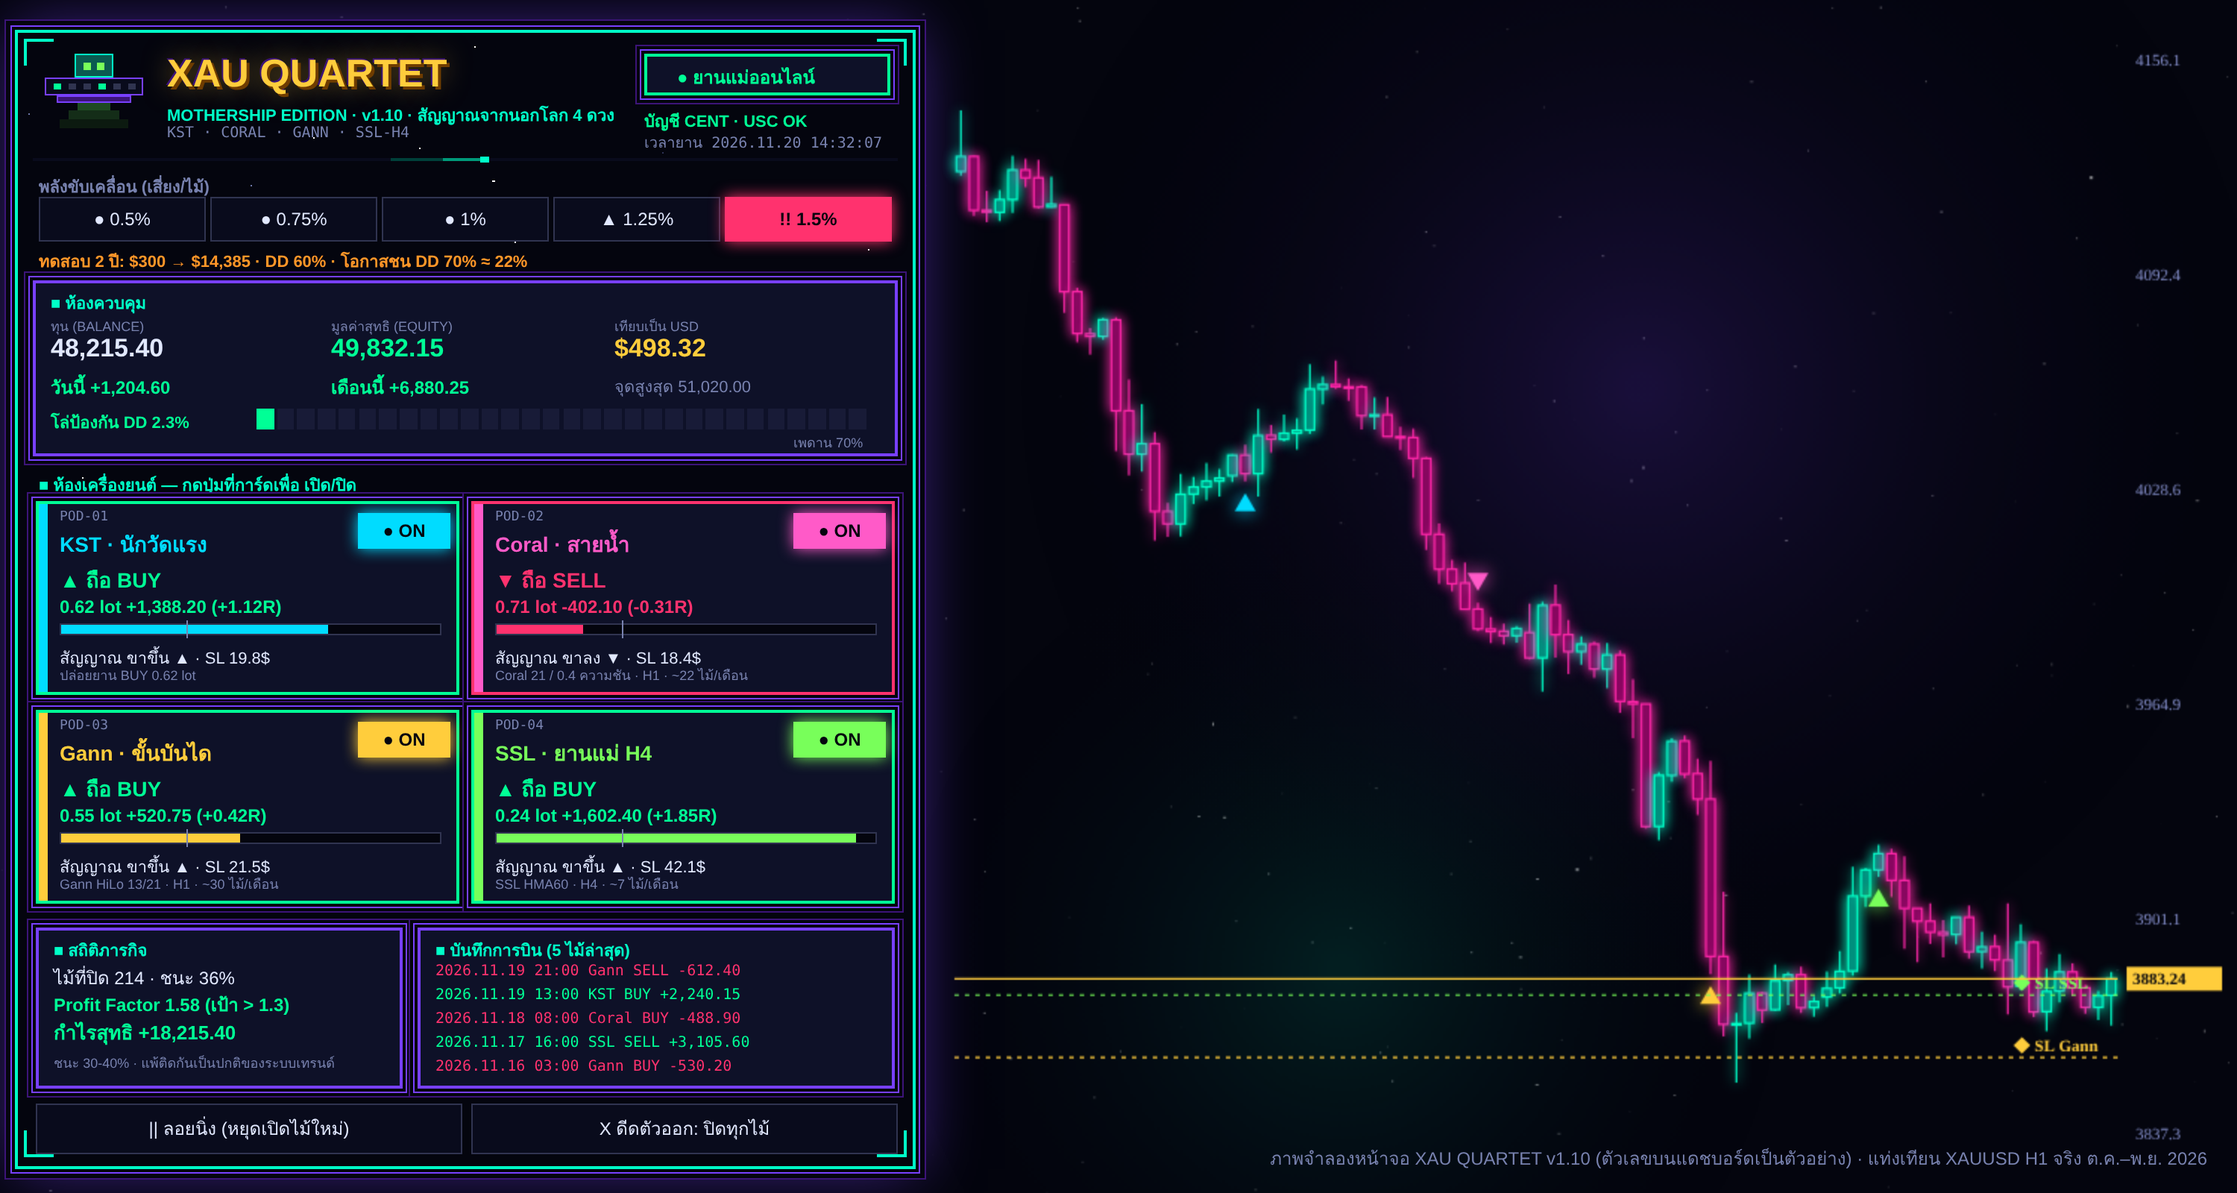
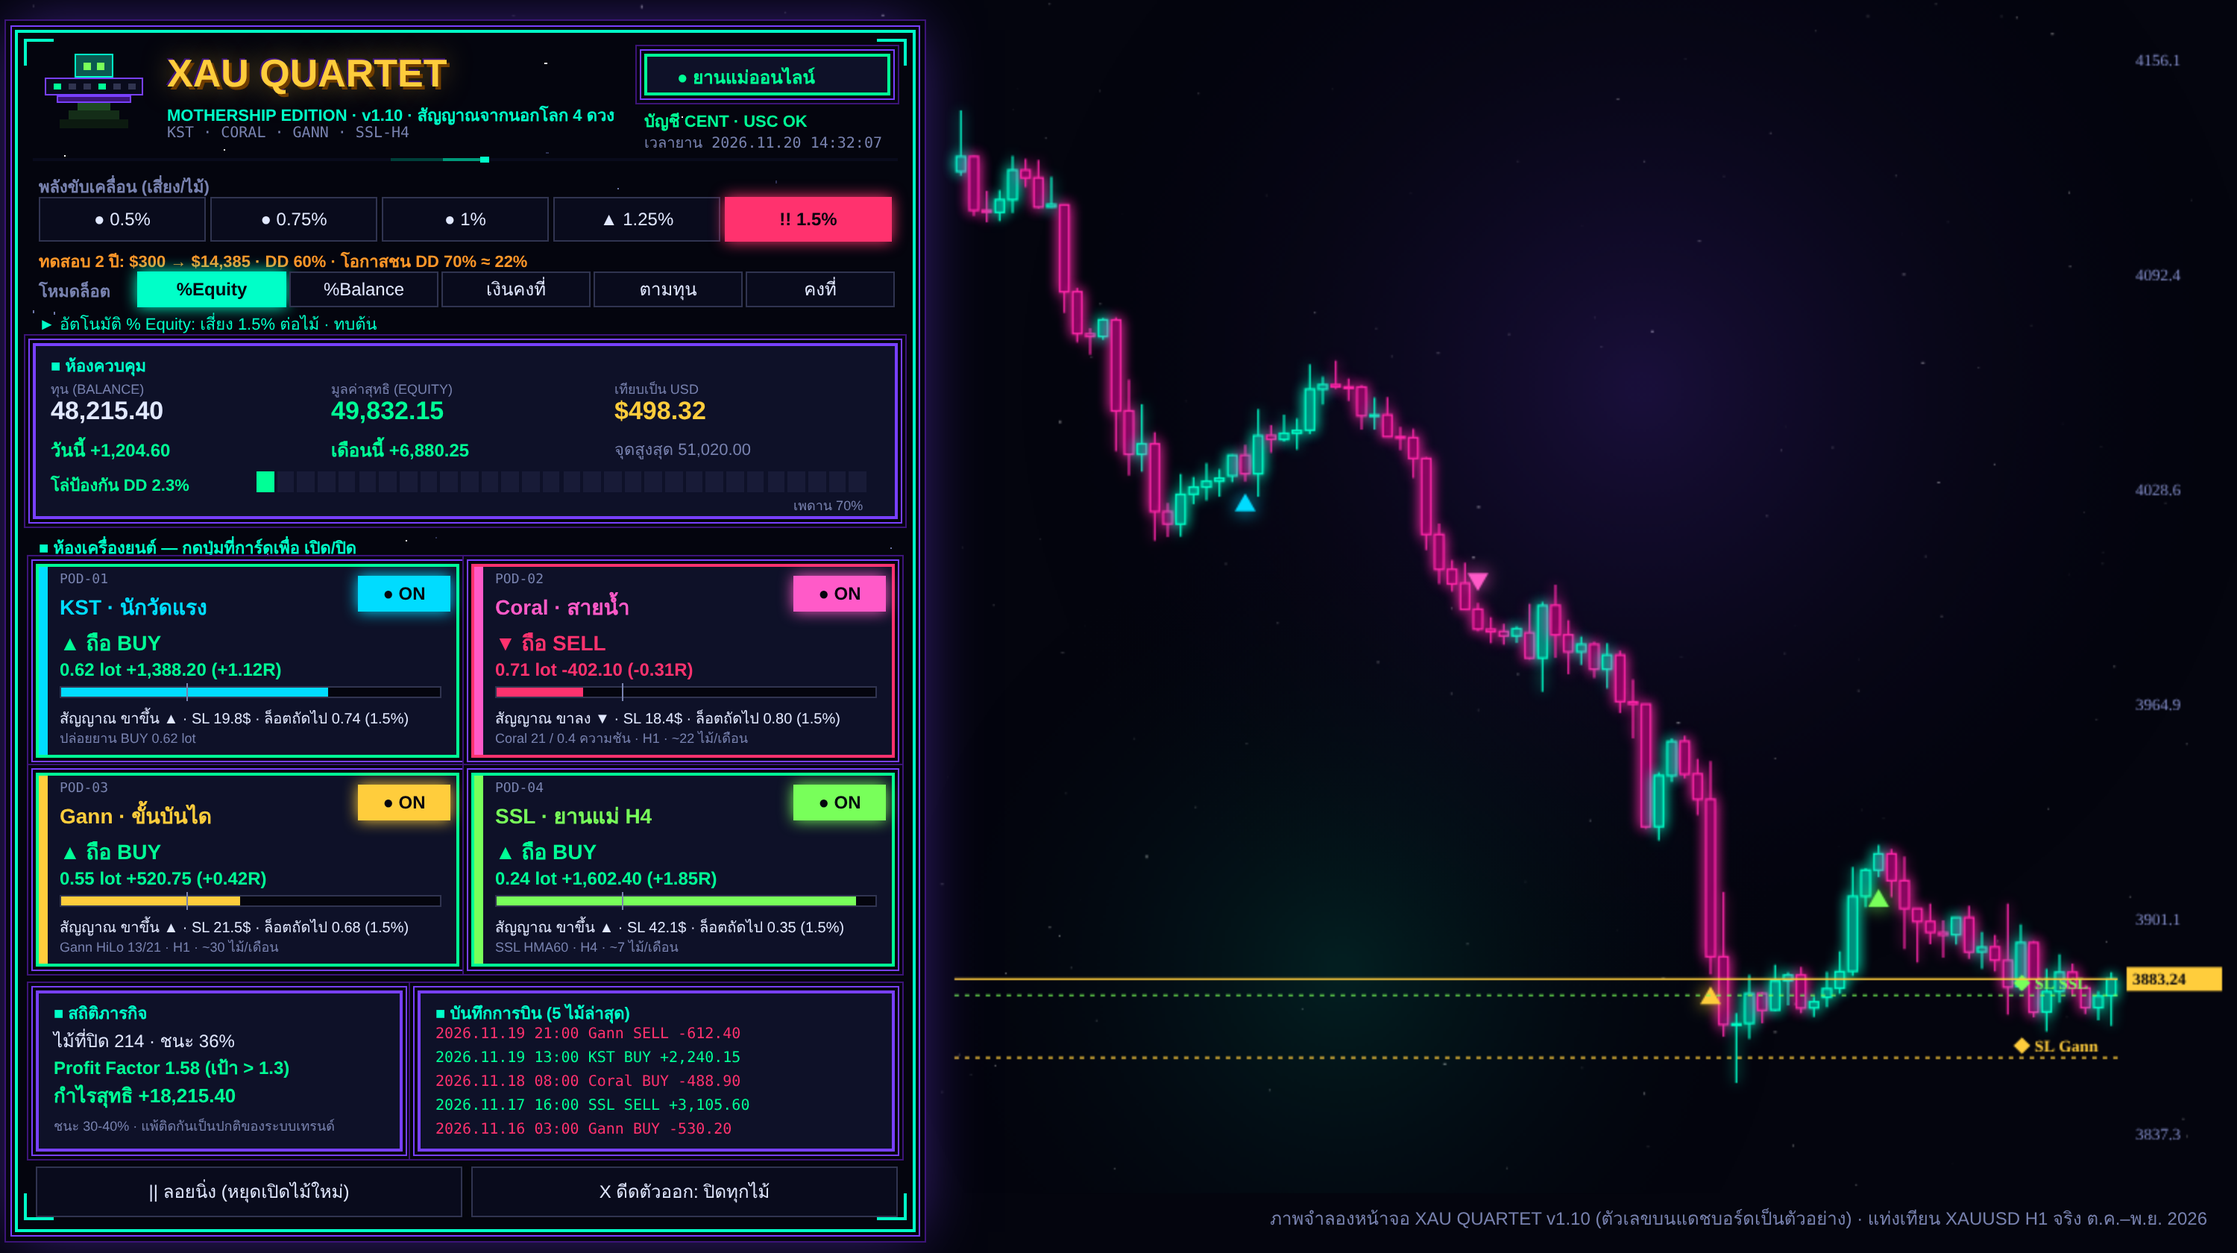
QUARTET v1.10: full auto-lot options (5 lot modes, compounding, per-engine multipliers, DD lot reduction, caps)
Claude-Session: https://claude.ai/code/session_01TDJgaM6YEUTqHfHKeX7Vt3

diff --git a/MQL5/Docs/quartet/quartet_preview.html b/MQL5/Docs/quartet/quartet_preview.html
@@ -1,13 +1,13 @@
 <!doctype html><html><head><meta charset="utf-8"><style>
 body{margin:0;background:#04050e;font-family:Tahoma,sans-serif;color:#e1e8ff}
-#wrap{position:relative;width:1500px;height:800px;overflow:hidden;background:#04050e}
+#wrap{position:relative;width:1500px;height:840px;overflow:hidden;background:#04050e}
 canvas{position:absolute;left:0;top:0}
-.p{position:absolute;left:10px;top:20px;width:600px;height:760px;background:#04050e;border:2px solid #00ffc8;box-shadow:0 0 0 2px #04050e,0 0 0 3px #7840ff,0 0 0 6px #04050e,0 0 0 7px #3c1478,0 0 40px #7840ff88}
+.p{position:absolute;left:10px;top:20px;width:600px;height:802px;background:#04050e;border:2px solid #00ffc8;box-shadow:0 0 0 2px #04050e,0 0 0 3px #7840ff,0 0 0 6px #04050e,0 0 0 7px #3c1478,0 0 40px #7840ff88}
 .a{position:absolute}.t{position:absolute;white-space:nowrap}
 .f{position:absolute;background:#0e1128;border:2px solid;box-shadow:0 0 0 2px #04050e,0 0 0 3px #7840ff,0 0 0 5px #04050e,0 0 0 6px #3c1478}
 .btn{position:absolute;height:28px;border:1px solid #303450;background:#090b1c;color:#e1e8ff;font-size:12px;text-align:center;line-height:28px}
 .cap{position:absolute;right:20px;bottom:14px;color:#7882af;font-size:12px}
-</style></head><body><div id="wrap"><canvas id="cv" width="1500" height="800"></canvas><div class="p" id="p"></div>
+</style></head><body><div id="wrap"><canvas id="cv" width="1500" height="840"></canvas><div class="p" id="p"></div>
 <div class="cap">ภาพจำลองหน้าจอ XAU QUARTET v1.10 (ตัวเลขบนแดชบอร์ดเป็นตัวอย่าง) · แท่งเทียน XAUUSD H1 จริง ต.ค.–พ.ย. 2026</div></div>
 <script>
 const C=[[4122.938, 4141.147, 4121.739, 4127.399], [4127.427, 4127.733, 4109.775, 4111.405], [4111.438, 4117.218, 4107.889, 4110.887], [4110.816, 4117.457, 4108.225, 4114.595], [4114.592, 4127.595, 4110.655, 4123.385], [4123.383, 4126.757, 4118.245, 4121.048], [4121.067, 4126.315, 4111.995, 4112.383], [4112.383, 4121.367, 4112.235, 4113.207], [4113.052, 4113.052, 4081.025, 4087.235], [4087.265, 4088.395, 4072.245, 4074.837], [4074.768, 4076.447, 4068.618, 4073.964], [4073.965, 4079.465, 4073.065, 4078.935], [4078.87, 4079.645, 4039.897, 4051.878], [4051.887, 4061.158, 4032.695, 4039.008], [4039.008, 4053.905, 4033.825, 4042.117], [4042.098, 4045.514, 4013.365, 4022.005], [4022.005, 4024.495, 4014.505, 4018.327], [4018.296, 4033.138, 4014.615, 4027.075], [4027.155, 4032.275, 4024.205, 4029.252], [4029.275, 4036.335, 4025.328, 4030.999], [4030.999, 4034.647, 4026.455, 4031.905], [4032.618, 4038.935, 4030.735, 4038.715], [4038.715, 4041.818, 4030.975, 4033.225], [4033.225, 4052.38, 4026.415, 4044.545], [4044.617, 4047.667, 4039.448, 4043.457], [4043.405, 4050.749, 4042.755, 4045.224], [4045.224, 4049.643, 4040.415, 4046.08], [4046.157, 4065.727, 4044.974, 4058.329], [4058.329, 4062.027, 4053.745, 4059.684], [4059.684, 4066.787, 4058.434, 4059.021], [4059.025, 4061.545, 4054.865, 4058.957], [4058.957, 4059.515, 4046.355, 4050.427], [4050.427, 4055.867, 4046.305, 4050.707], [4050.707, 4055.957, 4044.072, 4044.245], [4044.225, 4047.105, 4040.265, 4043.845], [4043.935, 4046.55, 4031.9, 4037.775], [4037.751, 4038.105, 4010.58, 4015.22], [4015.208, 4018.455, 4000.538, 4004.845], [4004.845, 4007.65, 3998.335, 4000.535], [4000.735, 4006.766, 3992.845, 3992.965], [3993.005, 3994.915, 3986.486, 3987.11], [3987.066, 3990.698, 3982.898, 3986.327], [3986.425, 3988.668, 3982.415, 3985.091], [3985.091, 3988.02, 3982.975, 3987.245], [3986.028, 3994.608, 3977.995, 3978.511], [3978.53, 3995.17, 3968.555, 3994.117], [3994.195, 4000.33, 3978.628, 3985.408], [3985.415, 3989.76, 3973.685, 3980.377], [3980.375, 3984.86, 3976.535, 3982.608], [3982.608, 3983.317, 3972.595, 3975.208], [3975.208, 3982.911, 3969.525, 3979.407], [3979.407, 3980.75, 3962.245, 3965.6], [3965.515, 3972.155, 3954.714, 3964.835], [3964.825, 3964.825, 3927.895, 3928.441], [3928.466, 3944.66, 3924.3, 3943.665], [3943.629, 3954.631, 3941.685, 3953.745], [3953.83, 3955.425, 3942.815, 3944.045], [3944.145, 3948.575, 3931.895, 3936.595], [3936.595, 3947.9, 3884.625, 3889.87], [3889.87, 3909.095, 3866.09, 3869.725], [3869.615, 3873.098, 3852.348, 3869.97], [3870.065, 3884.518, 3865.475, 3878.924], [3878.955, 3879.342, 3870.075, 3873.965], [3874.045, 3887.455, 3873.635, 3882.625], [3882.725, 3885.225, 3875.396, 3884.425], [3884.415, 3886.778, 3873.115, 3874.625], [3874.665, 3877.955, 3872.045, 3876.495], [3877.815, 3885.44, 3874.895, 3880.395], [3880.55, 3891.445, 3878.91, 3885.425], [3885.55, 3916.515, 3884.225, 3907.795], [3907.795, 3916.198, 3904.515, 3915.575], [3915.578, 3922.995, 3913.525, 3920.405], [3920.405, 3921.765, 3907.505, 3912.445], [3912.445, 3919.58, 3892.16, 3904.135], [3904.135, 3904.135, 3888.165, 3900.326], [3900.326, 3905.695, 3893.555, 3897.085], [3897.085, 3900.72, 3889.595, 3896.265], [3896.4, 3901.495, 3893.515, 3901.495], [3901.495, 3905.035, 3889.265, 3891.255], [3891.305, 3897.285, 3886.279, 3892.705], [3892.78, 3896.32, 3885.53, 3888.845], [3888.785, 3905.655, 3872.697, 3880.838], [3881.02, 3899.49, 3879.975, 3894.078], [3894.068, 3894.612, 3871.935, 3873.385], [3873.495, 3886.238, 3867.637, 3879.478], [3879.565, 3890.646, 3876.205, 3885.268], [3885.268, 3887.78, 3878.125, 3880.576], [3880.576, 3881.37, 3872.912, 3874.754], [3874.754, 3879.688, 3871.038, 3878.187], [3878.33, 3885.31, 3869.308, 3883.245]];const cv=document.getElementById('cv'),x=cv.getContext('2d');
@@ -30,12 +30,12 @@ if(d>0){x.moveTo(cx,y);x.lineTo(cx-7,y+12);x.lineTo(cx+7,y+12)}else{x.moveTo(cx,
 [[C[71][3]-42,'#78ff5a','SL SSL'],[C[58][3]-30,'#ffcd3c','SL Gann']].forEach(([v,col,t])=>{x.setLineDash([3,4]);x.strokeStyle=col;x.beginPath();x.moveTo(X0,Y(v));x.lineTo(X1,Y(v));x.stroke();x.setLineDash([]);x.fillStyle=col;x.font='bold 11px Tahoma';x.fillText('◆ '+t,X1-70,Y(v)-4)});
 const last=C[C.length-1][3];x.strokeStyle='#ffcd3c';x.beginPath();x.moveTo(X0,Y(last));x.lineTo(X1,Y(last));x.stroke();x.fillStyle='#ffcd3c';x.fillRect(X1+6,Y(last)-8,64,16);x.fillStyle='#04050e';x.fillText(last.toFixed(2),X1+10,Y(last)+4);
 // dashboard
-const P=document.getElementById('p');function R(l,t,w,h,bg,bd){const d=document.createElement('div');d.className='a';Object.assign(d.style,{left:l+'px',top:t+'px',width:w+'px',height:h+'px',background:bg||'transparent',border:bd?('1px solid '+bd):'none',boxSizing:'border-box'});P.appendChild(d);return d}
-function T(l,t,s,col,sz,b,ex){const d=document.createElement('div');d.className='t';Object.assign(d.style,{left:l+'px',top:t+'px',color:col,fontSize:sz+'px',fontWeight:b?'bold':'normal'});if(ex)Object.assign(d.style,ex);d.textContent=s;P.appendChild(d);return d}
-function F(l,t,w,h,col){const d=document.createElement('div');d.className='f';Object.assign(d.style,{left:l+'px',top:t+'px',width:w+'px',height:h+'px',borderColor:col,boxSizing:'border-box'});P.appendChild(d)}
-function B(l,t,w,s,on,col,h){const d=document.createElement('div');d.className='btn';Object.assign(d.style,{left:l+'px',top:t+'px',width:w+'px',height:(h||28)+'px',lineHeight:(h||28)+'px'});if(on){d.style.background=col;d.style.color='#04050e';d.style.fontWeight='bold';d.style.borderColor=col;d.style.boxShadow='0 0 10px '+col}d.textContent=s;P.appendChild(d)}
-for(let i=0;i<70;i++){R(6+Math.random()*588,6+Math.random()*748,Math.random()<.15?2:1,Math.random()<.15?2:1,['#fff','#6e78aa','#2d3255'][i%3])}
-[[4,4],[576,4],[4,752],[576,752]].forEach(([a,b],i)=>{R(a,b,20,2,'#00ffc8');R(i%2?a+18:a,i<2?b:b-16,2,18,'#00ffc8')});
+const P=document.getElementById('p');let OY=0;function R(l,t,w,h,bg,bd){const d=document.createElement('div');d.className='a';Object.assign(d.style,{left:l+'px',top:(t+OY)+'px',width:w+'px',height:h+'px',background:bg||'transparent',border:bd?('1px solid '+bd):'none',boxSizing:'border-box'});P.appendChild(d);return d}
+function T(l,t,s,col,sz,b,ex){const d=document.createElement('div');d.className='t';Object.assign(d.style,{left:l+'px',top:(t+OY)+'px',color:col,fontSize:sz+'px',fontWeight:b?'bold':'normal'});if(ex)Object.assign(d.style,ex);d.textContent=s;P.appendChild(d);return d}
+function F(l,t,w,h,col){const d=document.createElement('div');d.className='f';Object.assign(d.style,{left:l+'px',top:(t+OY)+'px',width:w+'px',height:h+'px',borderColor:col,boxSizing:'border-box'});P.appendChild(d)}
+function B(l,t,w,s,on,col,h){const d=document.createElement('div');d.className='btn';Object.assign(d.style,{left:l+'px',top:(t+OY)+'px',width:w+'px',height:(h||28)+'px',lineHeight:(h||28)+'px'});if(on){d.style.background=col;d.style.color='#04050e';d.style.fontWeight='bold';d.style.borderColor=col;d.style.boxShadow='0 0 10px '+col}d.textContent=s;P.appendChild(d)}
+for(let i=0;i<70;i++){R(6+Math.random()*588,6+Math.random()*790,Math.random()<.15?2:1,Math.random()<.15?2:1,['#fff','#6e78aa','#2d3255'][i%3])}
+[[4,4],[576,4],[4,794],[576,794]].forEach(([a,b],i)=>{R(a,b,20,2,'#00ffc8');R(i%2?a+18:a,i<2?b:b-16,2,18,'#00ffc8')});
 // UFO
 R(40,46,22,6,'#1e4a22');R(34,52,34,6,'#142d18');R(28,58,46,6,'#0c1a10');R(38,14,26,16,'#0a5a50','#00ffc8');R(44,20,5,5,'#78ff5a');R(53,20,5,5,'#78ff5a');
 R(18,30,66,12,'#090b1c','#7840ff');R(26,42,50,5,'#3c1478','#7840ff');for(let i=0;i<6;i++)R(24+i*10,34,5,4,i%3==0?'#00ff96':'#303450');
@@ -46,6 +46,8 @@ R(10,84,580,2,'#090b1c');R(250,84,60,2,'#00403a');R(285,84,25,2,'#009a7a');R(310
 T(14,94,'พลังขับเคลื่อน (เสี่ยง/ไม้)','#7882af',11,true);
 [['● 0.5%','#00ff96'],['● 0.75%','#78ff5a'],['● 1%','#ffcd3c'],['▲ 1.25%','#ff9628'],['!! 1.5%','#ff326e']].forEach((a,k)=>B(14+k*115,110,110,a[0],k==4,a[1]));
 T(14,144,'ทดสอบ 2 ปี: $300 → $14,385 · DD 60% · โอกาสชน DD 70% ≈ 22%','#ff9628',11,true);
+T(14,164,'โหมดล็อต','#7882af',11,true);['%Equity','%Balance','เงินคงที่','ตามทุน','คงที่'].forEach((a,m)=>B(80+m*102,160,98,a,m==0,'#00ffc8',22));
+T(14,186,'► อัตโนมัติ % Equity: เสี่ยง 1.5% ต่อไม้ · ทบต้น','#00ffc8',11);OY=42;
 F(10,166,580,118,'#7840ff');T(22,172,'■ ห้องควบคุม','#00ffc8',11,true);
 T(22,190,'ทุน (BALANCE)','#7882af',9);T(22,202,'48,215.40','#e1e8ff',17,true);T(210,190,'มูลค่าสุทธิ (EQUITY)','#7882af',9);T(210,202,'49,832.15','#00ff96',17,true);
 T(400,190,'เทียบเป็น USD','#7882af',9);T(400,202,'$498.32','#ffcd3c',17,true);T(22,228,'วันนี้ +1,204.60','#00ff96',12,true);T(210,228,'เดือนนี้ +6,880.25','#00ff96',12,true);T(400,228,'จุดสูงสุด 51,020.00','#7882af',11);
@@ -58,7 +60,7 @@ const E=[['KST · นักวัดแรง','#00dcff','▲ ถือ BUY','0.
 E.forEach((e,k)=>{const l=12+(k%2)*292,t=314+Math.floor(k/2)*140,st=e[2].includes('BUY')?'#00ff96':'#ff326e';F(l,t,284,130,st);R(l+2,t+2,6,126,e[1]);
 T(l+16,t+6,'POD-0'+(k+1),'#7882af',9,false,{fontFamily:'Consolas,monospace'});T(l+16,t+18,e[0],e[1],14,true);B(l+216,t+8,60,'● ON',true,e[1],22);
 T(l+16,t+42,e[2],st,14,true);T(l+16,t+64,e[3],e[4]>=0?'#00ff96':'#ff326e',12,true);R(l+16,t+82,256,8,'#04050e','#303450');
-R(l+17,t+83,Math.max(1,254*Math.min(1,(e[4]+1)/3)),6,e[4]>=0?e[1]:'#ff326e');R(l+16+85,t+80,1,12,'#7882af');T(l+16,t+96,e[5],'#e1e8ff',11);T(l+16,t+110,e[6],'#7882af',9)});
+R(l+17,t+83,Math.max(1,254*Math.min(1,(e[4]+1)/3)),6,e[4]>=0?e[1]:'#ff326e');R(l+16+85,t+80,1,12,'#7882af');T(l+16,t+96,e[5]+'  ·  ล็อตถัดไป '+['0.74','0.80','0.68','0.35'][k]+' (1.5%)','#e1e8ff',10);T(l+16,t+110,e[6],'#7882af',9)});
 F(12,600,246,108,'#7840ff');T(24,606,'■ สถิติภารกิจ','#00ffc8',11,true);T(24,624,'ไม้ที่ปิด 214 · ชนะ 36%','#e1e8ff',12);T(24,642,'Profit Factor 1.58  (เป้า > 1.3)','#00ff96',12,true);T(24,660,'กำไรสุทธิ +18,215.40','#00ff96',13,true);T(24,684,'ชนะ 30-40% · แพ้ติดกันเป็นปกติของระบบเทรนด์','#7882af',9);
 F(268,600,320,108,'#7840ff');T(280,606,'■ บันทึกการบิน (5 ไม้ล่าสุด)','#00ffc8',11,true);
 ['2026.11.19 21:00  Gann  SELL  -612.40','2026.11.19 13:00  KST   BUY   +2,240.15','2026.11.18 08:00  Coral BUY   -488.90','2026.11.17 16:00  SSL   SELL  +3,105.60','2026.11.16 03:00  Gann  BUY   -530.20'].forEach((s,i)=>T(280,624+i*16,s,s.includes('+')?'#00ff96':'#ff326e',10,false,{fontFamily:'Consolas,monospace'}));

diff --git a/MQL5/Docs/passed/07_QUARTET.md b/MQL5/Docs/passed/07_QUARTET.md
@@ -6,6 +6,24 @@
 - ธีมกราฟอวกาศ: พื้นดำม่วง, แท่งเทียนนีออน (ขึ้นเขียวฟ้า / ลงชมพู), ซ่อนกริด · คืนค่ากราฟเดิมเมื่อถอด EA (`InpSpaceChart`)
 - ลูกศรเข้าไม้สีตามเครื่องยนต์ + เส้น SL สดของแต่ละไม้ (`InpDrawTrades`) · ปิดแอนิเมชันได้ (`InpAnimate`)
 - magic เดิม 891000+ ใช้แทน v1.00 ได้ทันที (ถอด v1.00 ก่อน)
+
+### โหมดล็อต (ออโต้ล็อต) — กดเปลี่ยนบนแดชบอร์ดได้ 5 แบบ
+| ปุ่ม | โหมด | คำนวณล็อต | ใช้เมื่อ |
+|---|---|---|---|
+| **%Equity** (ค่าเริ่มต้น) | อัตโนมัติ % ของ Equity | Equity × % ÷ (ระยะ SL × มูลค่าต่อจุด) | ตรงกับแบ็กเทส ล็อตโต/หดตามพอร์ตทันที |
+| %Balance | อัตโนมัติ % ของ Balance | เหมือนบนแต่ใช้ Balance (ไม่นับกำไร/ขาดทุนลอย) | ถือหลายไม้พร้อมกันบ่อย ล็อตนิ่งกว่า |
+| เงินคงที่ | เสี่ยงเงินคงที่ต่อไม้ | `InpRiskMoney` ÷ (ระยะ SL × มูลค่าต่อจุด) | อยากรู้ชัดว่าแพ้ไม้ละกี่บาท |
+| ตามทุน | ล็อตต่อขนาดทุน | floor(Balance ÷ `InpStepMoney`) × `InpStepLot` เช่น 0.01 ต่อ 3,000 USC | สไตล์ EA ทั่วไป ไม่สน SL |
+| คงที่ | ล็อตคงที่ | `InpFixedLot` ทุกไม้ | ทดสอบ / demo |
+
+ตัวเลือกเสริม (Inputs):
+- `InpCompound` ทบต้น true/false · `InpBaseCapital` ทุนฐานเมื่อไม่ทบต้น (0 = Balance ตอนติดตั้ง)
+- `InpMultKST / InpMultCoral / InpMultGann / InpMultSSL` ตัวคูณล็อตรายเครื่อง (เช่น SSL H4 = 1.5 ให้น้ำหนักเครื่องที่ DD ต่ำ)
+- `InpDDReduceAt` + `InpDDReduceMult` ลดล็อตอัตโนมัติเมื่อ DD สูง (เช่น DD ≥ 40% ใช้ล็อต ×0.5)
+- `InpMaxLot` เพดานล็อตต่อไม้ · `InpMaxTotalRisk` เพดานความเสี่ยงรวมของไม้ที่เปิดอยู่ (% Equity)
+- `InpMinLotRule` เมื่อคำนวณได้ต่ำกว่า 0.01: ใช้ 0.01 ถ้าเสี่ยง ≤ `InpMinLotCap` / ใช้ 0.01 เสมอ / ข้ามเสมอ
+- การ์ดเครื่องยนต์แสดง "ล็อตถัดไป" และ % เสี่ยงจริง ก่อนเกิดสัญญาณ
+- ผลแบ็กเทสในตารางอ้างอิงโหมด %Equity ทบต้น
 - ภาพตัวอย่าง: `MQL5/Docs/quartet/quartet_dashboard.png`
 
 | ความเสี่ยง (เพดาน 70%) | 2 ปี | DD | โอกาสชน 70% (bootstrap) |

diff --git a/MQL5/Locker/LOCKER.md b/MQL5/Locker/LOCKER.md
@@ -13,7 +13,7 @@
 ## ชั้น 1 — EA พร้อมใช้ (ผ่านแล้ว รอ Strategy Tester + demo)
 | EA | ไฟล์ | สถานะ |
 |---|---|---|
-| **XAU QUARTET v1.10** ⭐ | `MQL5/Experts/XAU_QUARTET_v1.10.mq5` | ผ่าน 2 ปี · 0.75% $300→$3,351 DD 35% · 1.5% (เพดาน 70%) $14,385 DD 60% |
+| **XAU QUARTET v1.10** ⭐ (ออโต้ล็อต 5 โหมด) | `MQL5/Experts/XAU_QUARTET_v1.10.mq5` | ผ่าน 2 ปี · 0.75% $300→$3,351 DD 35% · 1.5% (เพดาน 70%) $14,385 DD 60% |
 | XAU QUARTET v1.00 | `XAU_QUARTET_v1.00.mq5` | แดชบอร์ดธรรมดา 3 ระดับเสี่ยง, เพดาน DD 50% |
 | XAU SENTINEL v1.10 | `XAU_SENTINEL_v1.10.mq5` | ใช้เฉพาะโหมดมาตรฐาน (2 ปี 0.75% $1,698 DD 40%) · ⚠ เทอร์โบแตกในปีก่อน |
 | XAU ORB v6.10 | `XAU_ORB_EA_v6.10.mq5` | ผ่านปีล่าสุด (breakout เอเชีย) |
